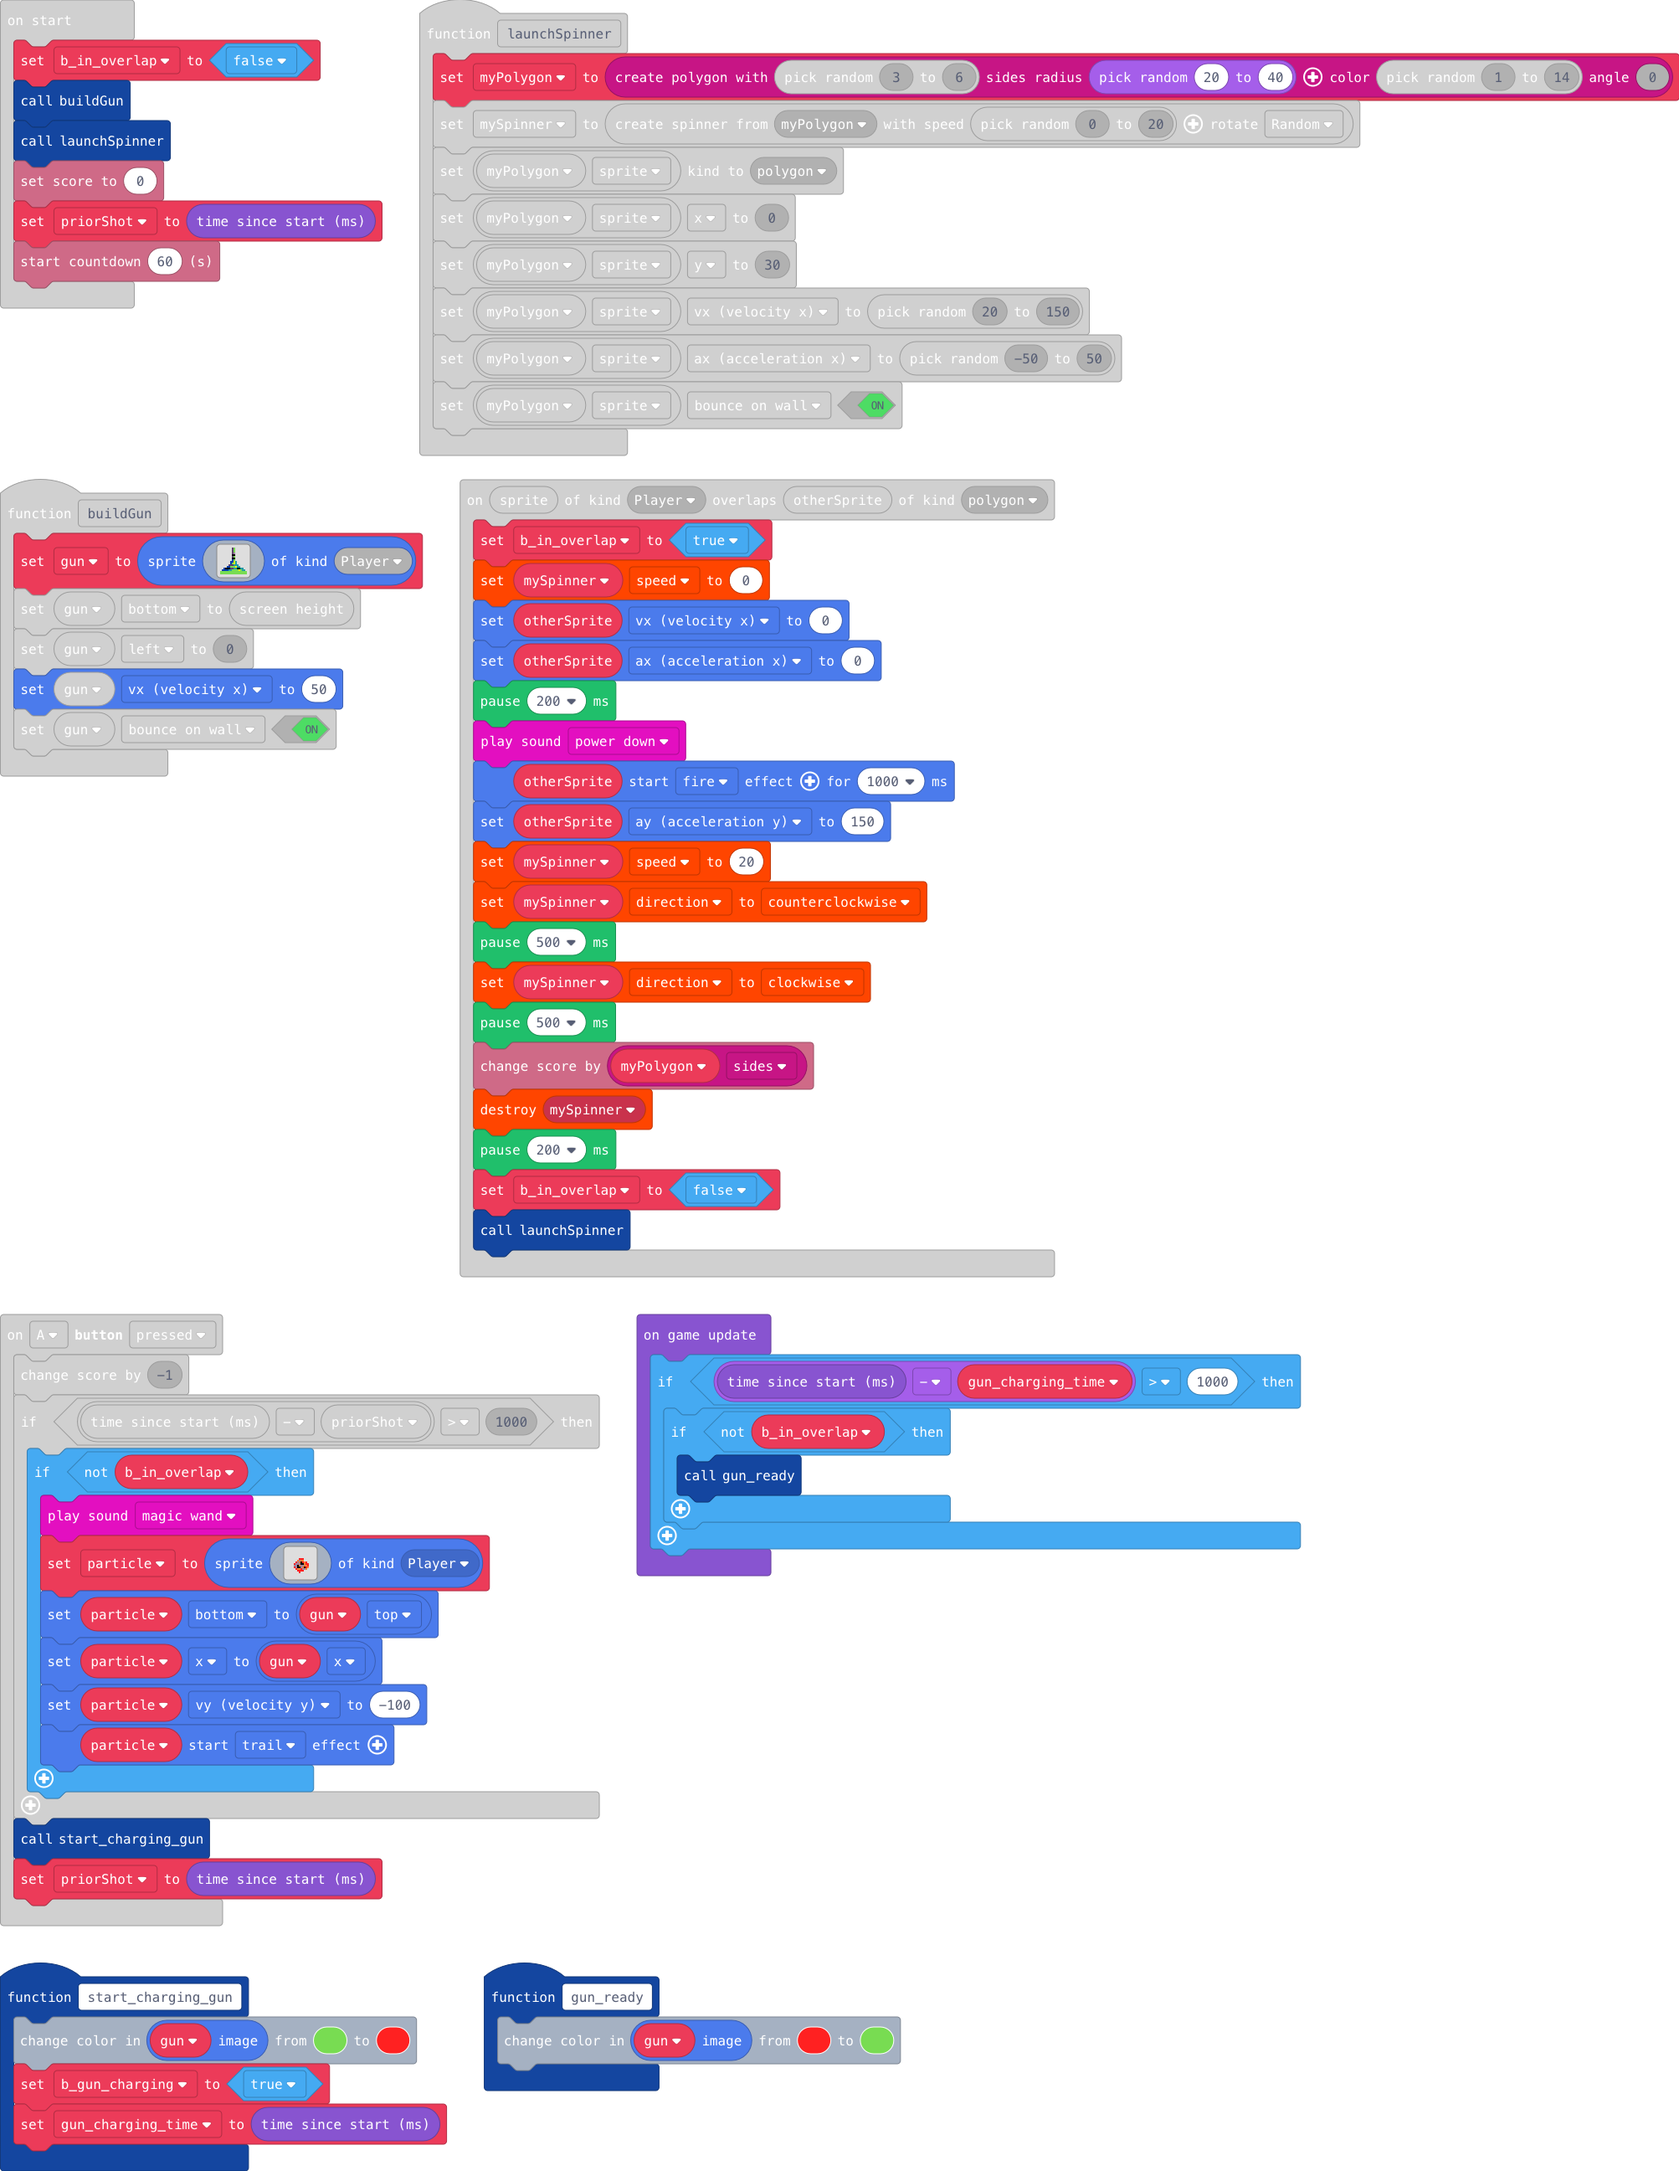
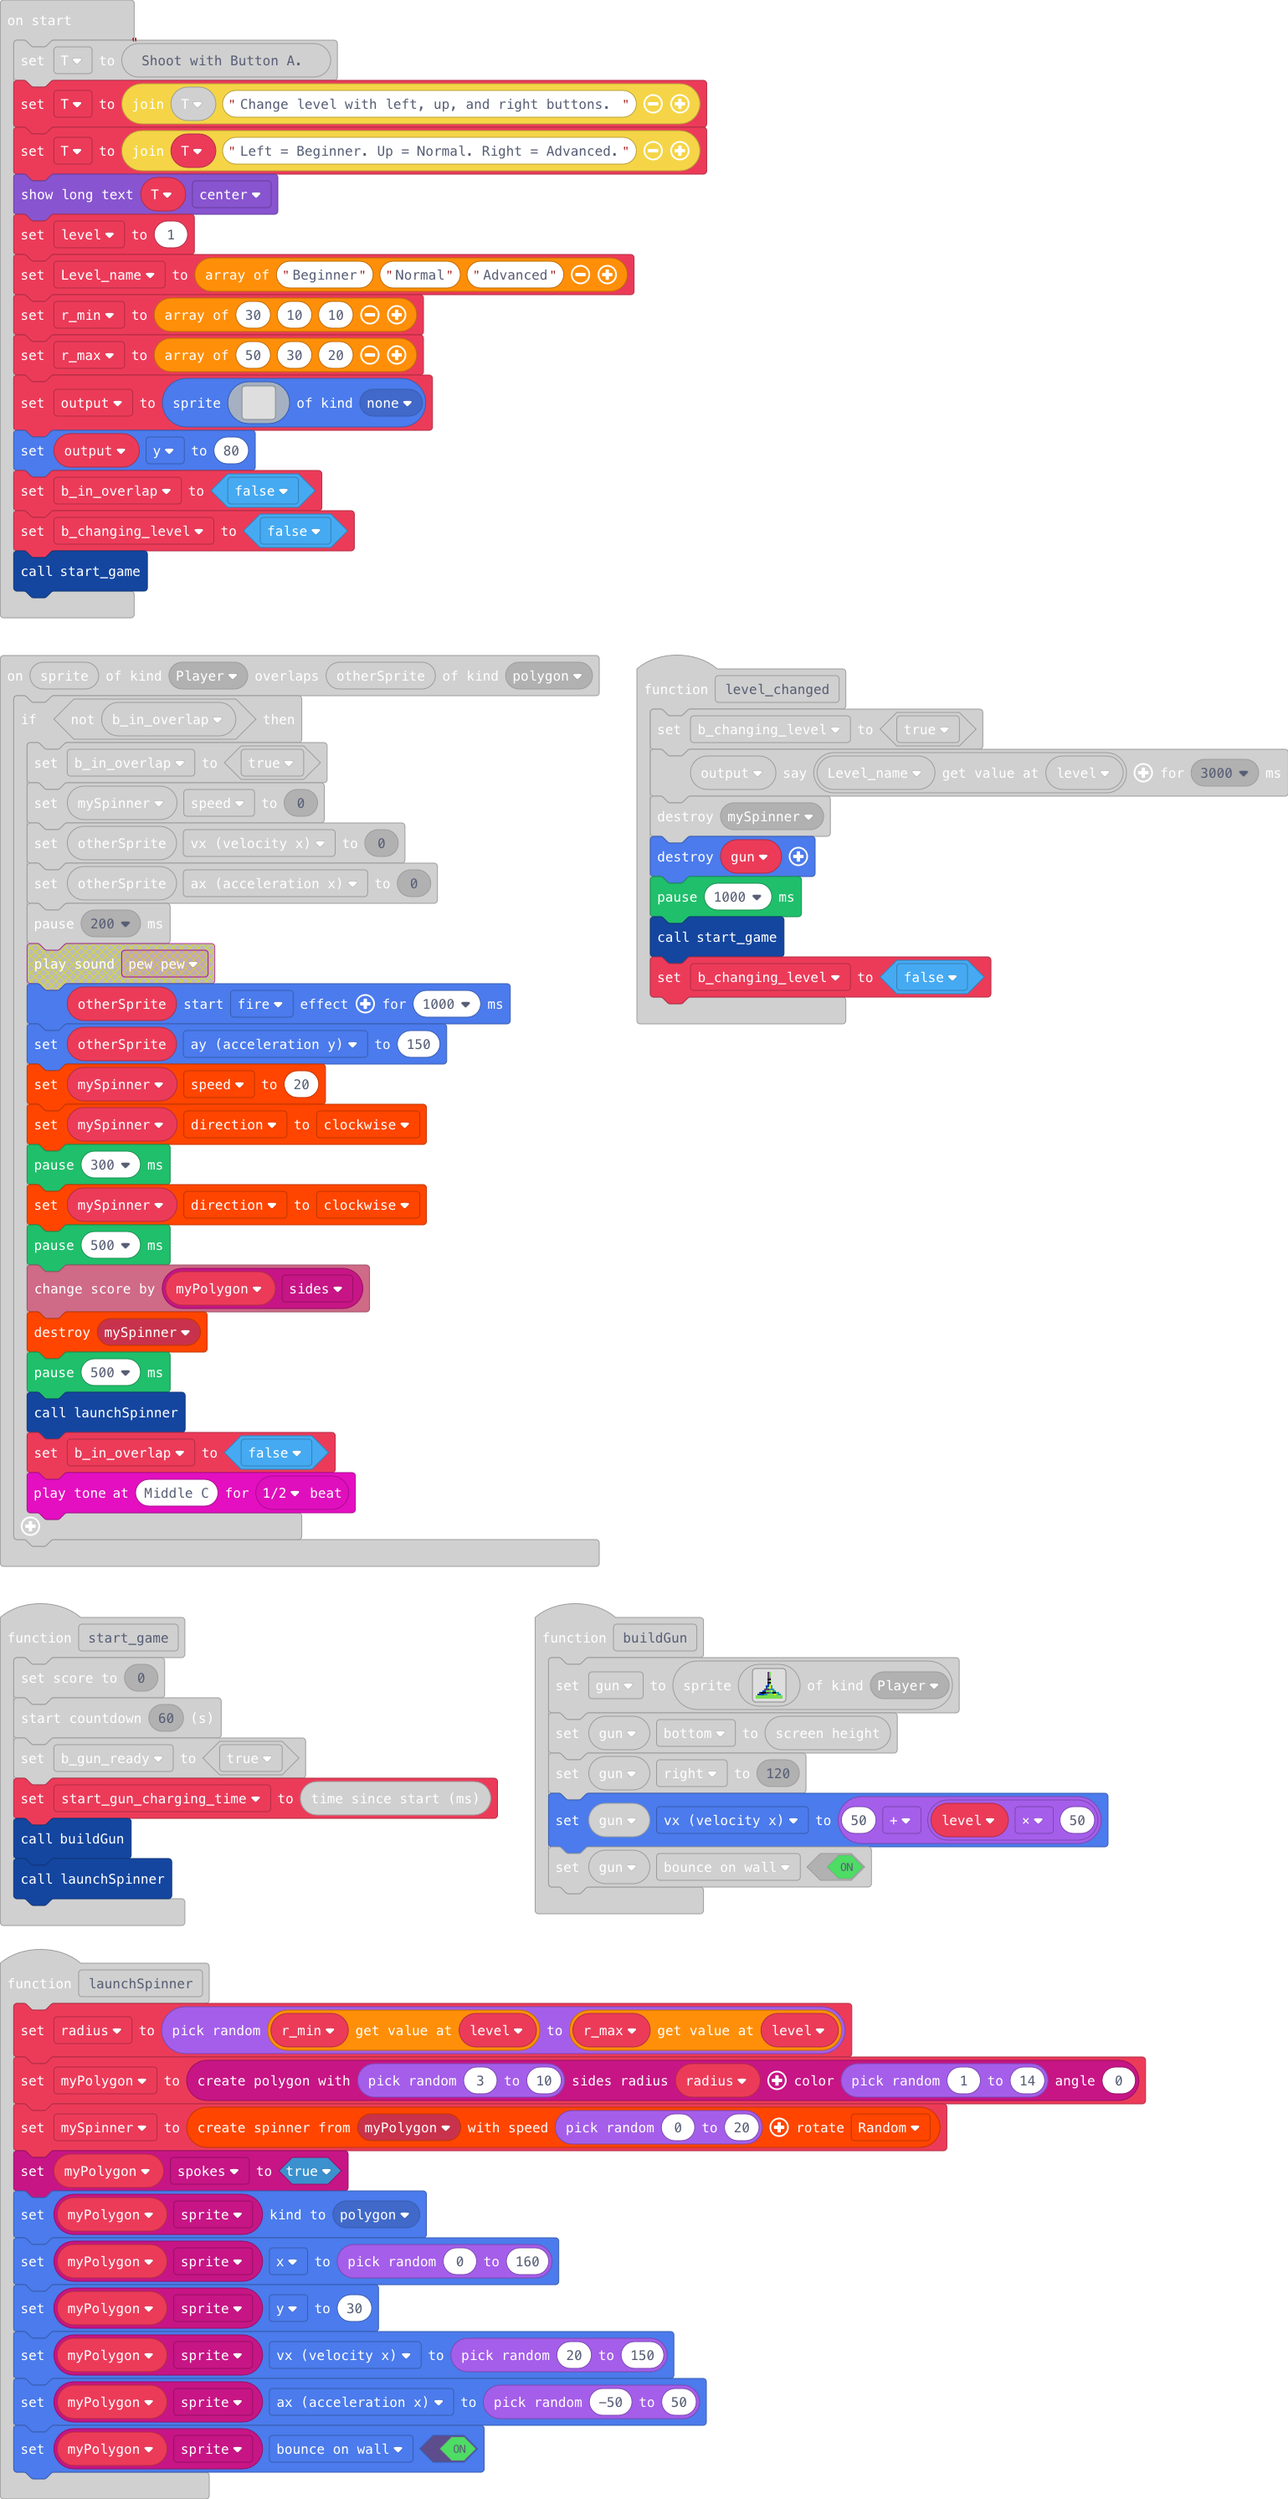
Update pxt.json, main.blocks, main.ts

diff --git a/main.ts b/main.ts
@@ -23,7 +23,7 @@ function buildGun () {
 `, SpriteKind.Player)
     gun.bottom = scene.screenHeight()
     gun.right = 120
-    gun.vx = 100
+    gun.vx = 50 + level * 50
     gun.setFlag(SpriteFlag.BounceOnWall, true)
 }
 function gun_charging () {
@@ -38,11 +38,12 @@ controller.left.onEvent(ControllerButtonEvent.Pressed, function () {
     }
 })
 function launchSpinner () {
-    myPolygon = polygon.createPolygon(Math.randomRange(3, 10), Math.randomRange(r_min[level], r_max[level]), Math.randomRange(1, 14), 0)
+    radius = Math.randomRange(r_min[level], r_max[level])
+    myPolygon = polygon.createPolygon(Math.randomRange(3, 10), radius, Math.randomRange(1, 14), 0)
     mySpinner = spinner.createSpinner(myPolygon, Math.randomRange(0, 20), Direction.Random)
     myPolygon.spokes = true
     myPolygon.sprite.setKind(SpriteKind.polygon)
-    myPolygon.sprite.x = 0
+    myPolygon.sprite.x = Math.randomRange(0, 160)
     myPolygon.sprite.y = 30
     myPolygon.sprite.vx = Math.randomRange(20, 150)
     myPolygon.sprite.ax = Math.randomRange(-50, 50)
@@ -53,6 +54,7 @@ function start_game () {
     info.startCountdown(60)
     b_gun_ready = true
     start_gun_charging_time = game.runtime()
+    buildGun()
     launchSpinner()
 }
 controller.A.onEvent(ControllerButtonEvent.Pressed, function () {
@@ -96,6 +98,7 @@ function level_changed () {
     b_changing_level = true
     output.say(Level_name[level], 3000)
     spinner.destroySpinner(mySpinner)
+    gun.destroy()
     pause(1000)
     start_game()
     b_changing_level = false
@@ -107,7 +110,7 @@ sprites.onOverlap(SpriteKind.Player, SpriteKind.polygon, function (sprite, other
         otherSprite.vx = 0
         otherSprite.ax = 0
         pause(200)
-        music.pewPew.play()
+        music.playTone(262, music.beat(BeatFraction.Half))
         otherSprite.startEffect(effects.fire, 1000)
         otherSprite.ay = 150
         mySpinner.speed = 20
@@ -135,6 +138,7 @@ controller.up.onEvent(ControllerButtonEvent.Pressed, function () {
 let particle: Sprite = null
 let mySpinner: spinner.Spinner = null
 let myPolygon: Polygon = null
+let radius = 0
 let start_gun_charging_time = 0
 let b_gun_ready = false
 let gun: Sprite = null
@@ -146,7 +150,8 @@ let r_min: number[] = []
 let Level_name: string[] = []
 let level = 0
 let T = "Shoot with Button A. "
-T = "" + T + "Change level with left, up, and right buttons. Left = Beginner. Up = Normal. Right = Advanced."
+T = "" + T + "Change level with left, up, and right buttons. "
+T = "" + T + "Left = Beginner. Up = Normal. Right = Advanced."
 game.showLongText(T, DialogLayout.Center)
 level = 1
 Level_name = ["Beginner", "Normal", "Advanced"]
@@ -158,7 +163,6 @@ output = sprites.create(img`
 output.y = 80
 b_in_overlap = false
 b_changing_level = false
-buildGun()
 start_game()
 game.onUpdate(function () {
     if (game.runtime() - start_gun_charging_time > 1000) {
